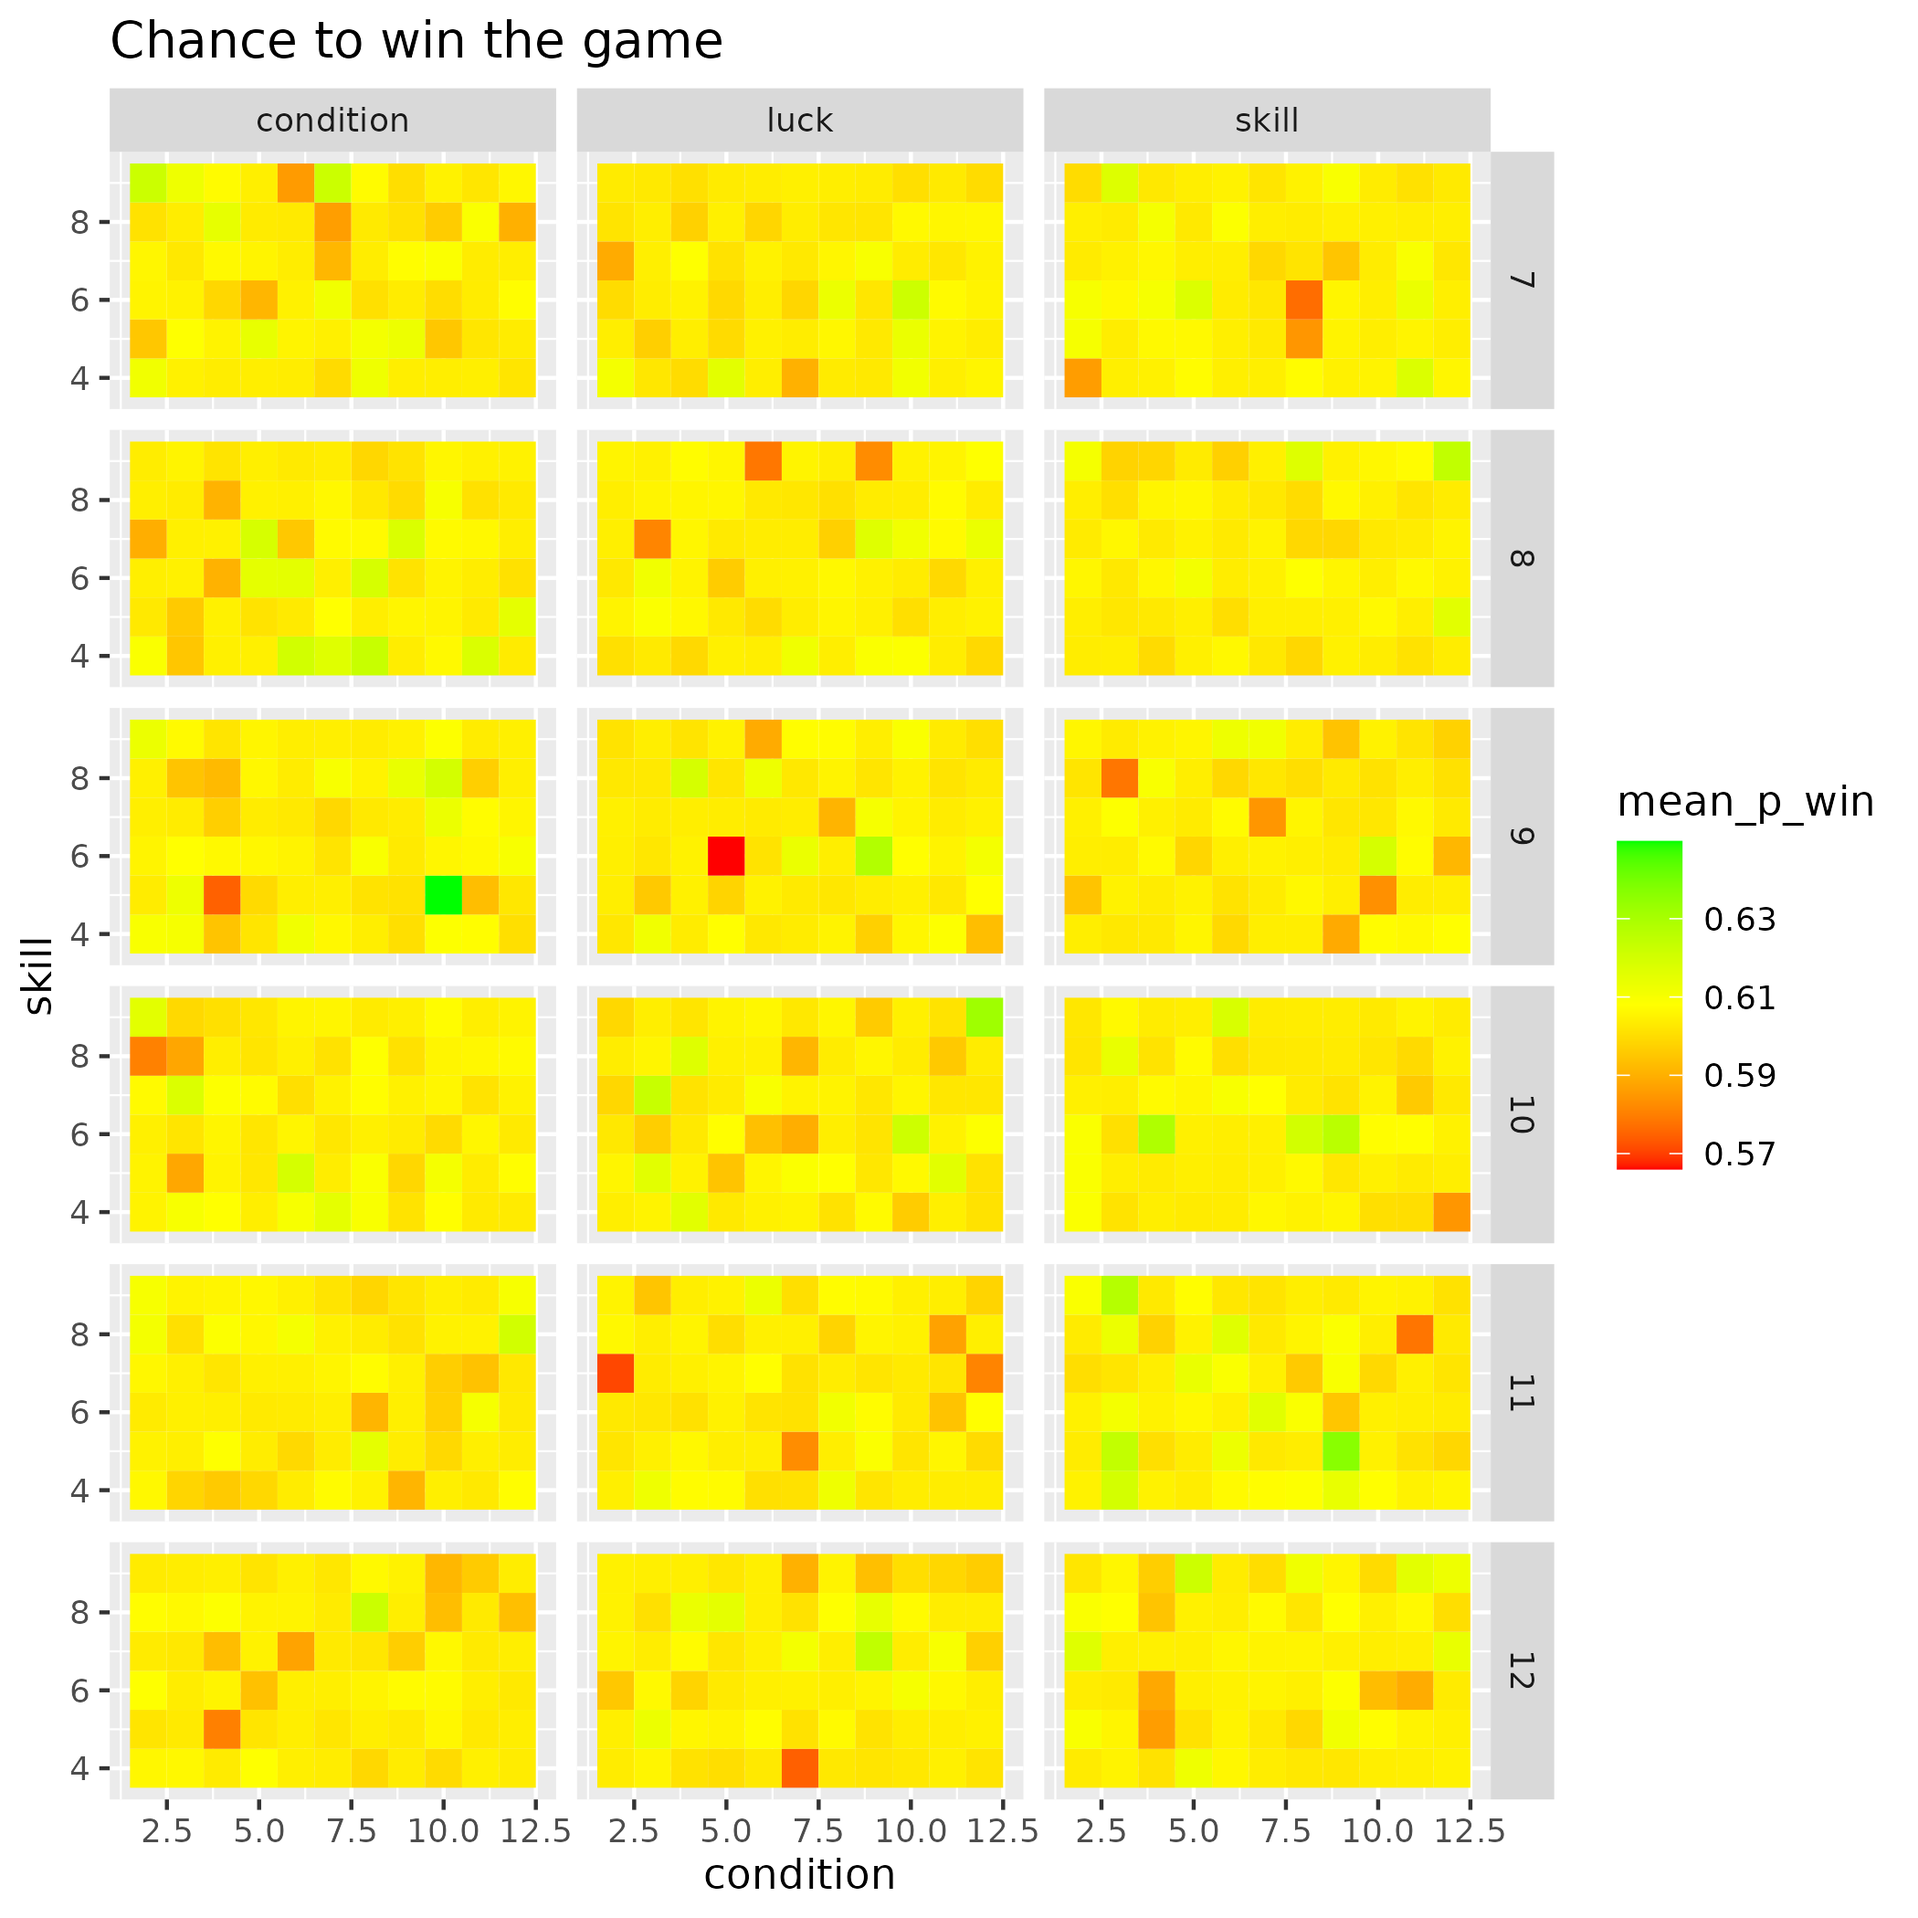
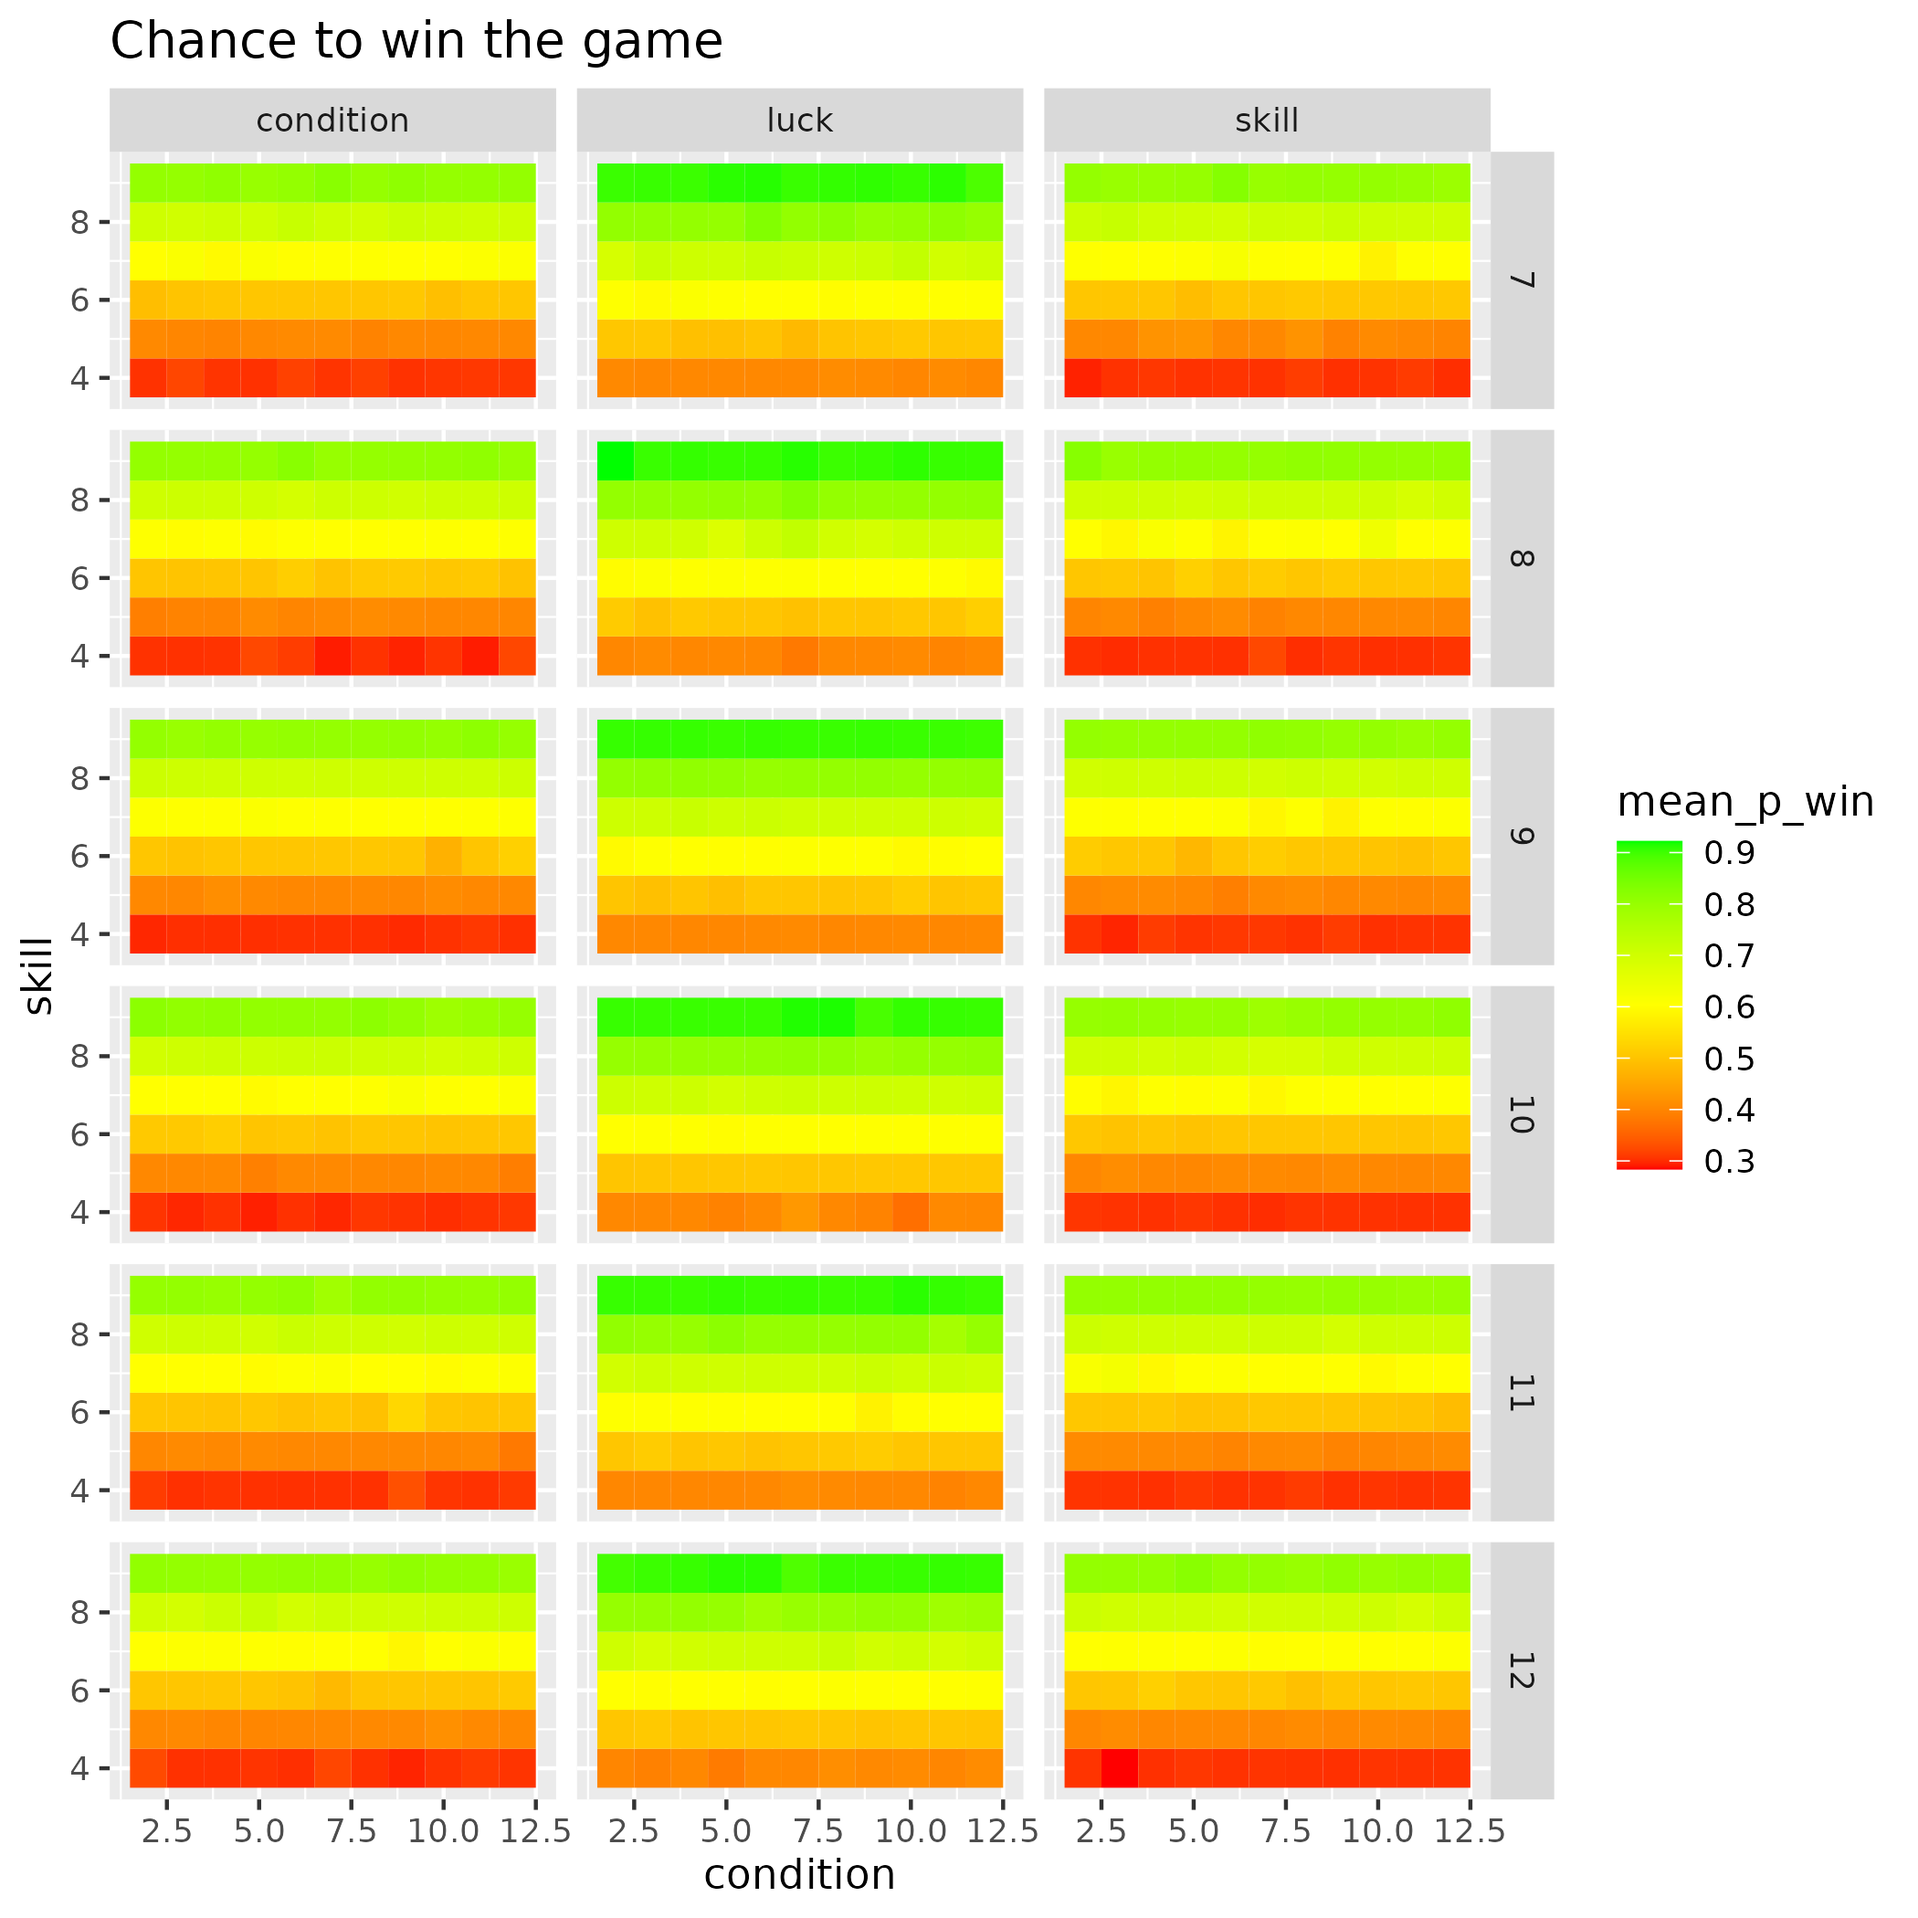
Show figs

diff --git a/README.md b/README.md
@@ -6,10 +6,7 @@ Experiment on 'City of Thieves'.
  * [Article](https://github.com/richelbilderbeek/article_city_of_thieves)
 
 
-## Data
+![](test_fig_1.png)
 
+![](test_fig_2.png)
 
-```
-health,skill,luck,potion,time,p_start_1,p_start_2,p_start_3,p_clock_street,p_key_street,p_market_street,p_correct_final_choice,p_wrong_final_choice_1,p_wrong_final_choice_2
-
-```
